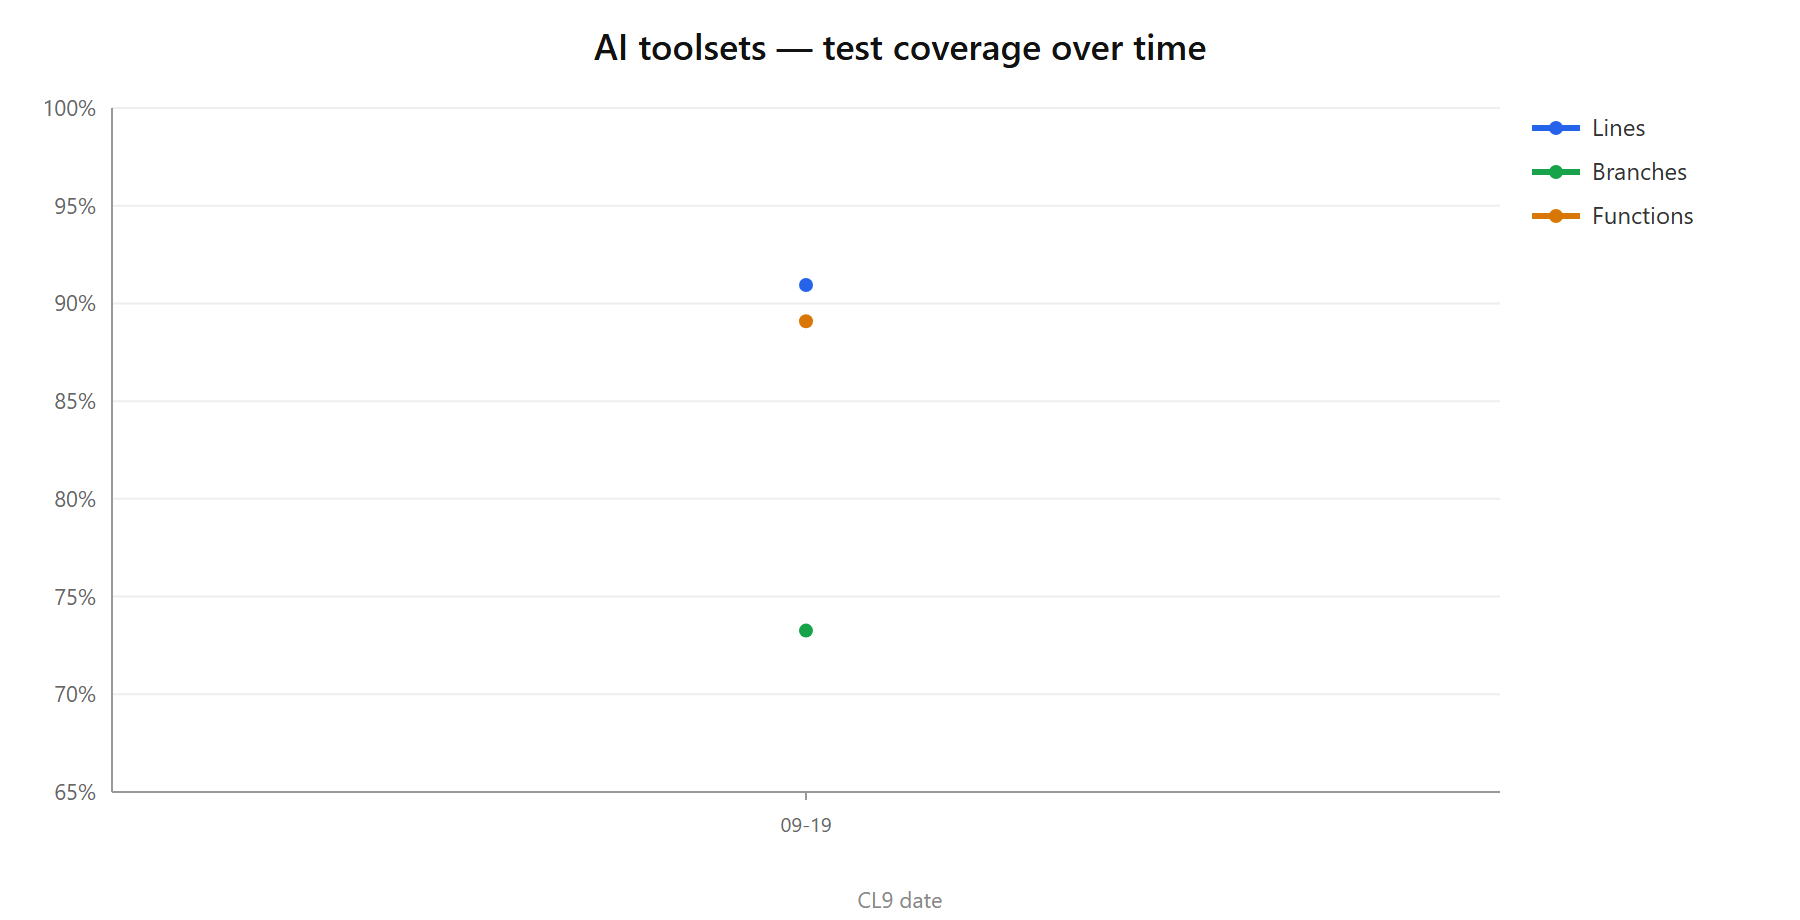
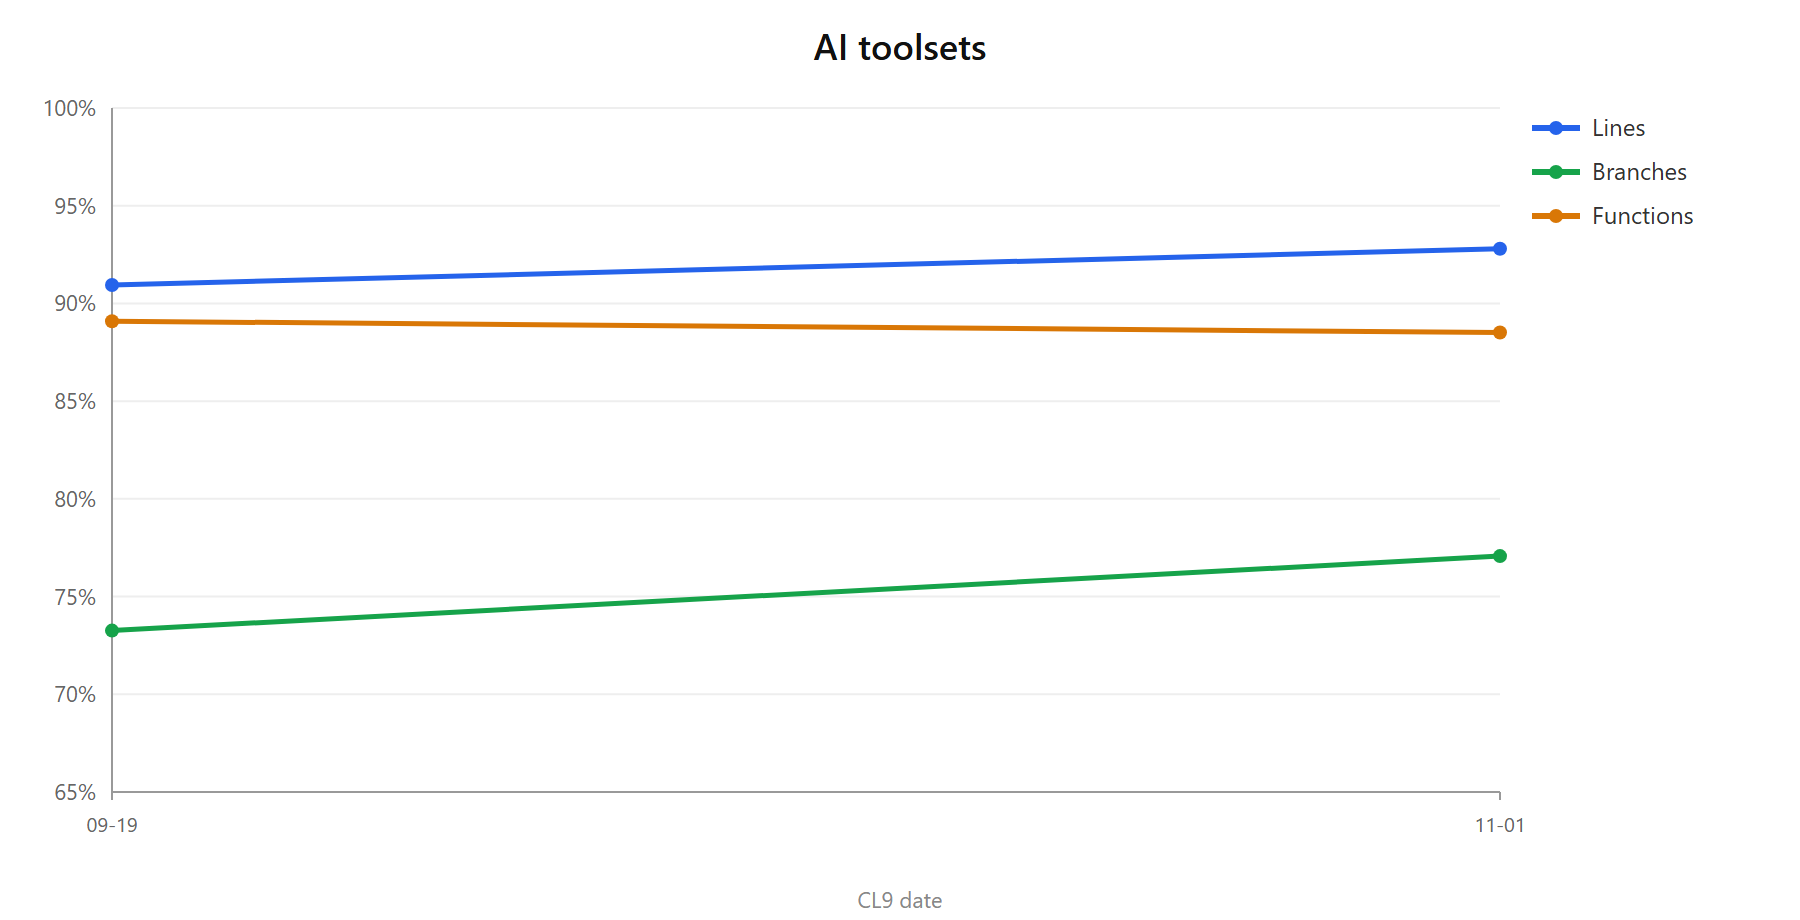
docs(aitoolsets): source-repos 0.3.0 en la guia, y las metricas del cierre
El toolset de pago pasa de 2 a 5 tools: list_repo_tree, search_code y get_file_history, mas el path?
de compare_revisions. La guia cuenta ademas lo que el QA enseño y no estaba documentado en ninguna
parte: que la busqueda de codigo de GitHub NO ve revisiones (solo indexa la rama por defecto) y por
que eso importa; que GitHub no sigue renombrados y un historial corto puede ser engañoso; que un
fichero grande llega POR TRAMOS y con las lineas numeradas, y que concluir "no esta" desde un tramo
es la peor respuesta que puede dar esta tool porque suena igual de segura que una verdadera.

Los dos campos de la credencial se documentan por lo que son y no por lo que parecen: Host es un
hostname --no una URL, no un apodo-- y es la llave de casamiento; el API base URL se deja vacio
salvo que la API viva en otro sitio.

Metricas de la familia: 178 harness ✅, cobertura agregada 92.80 / 77.07 / 88.51, y e2e del core
12/12 (aitoolsets-manager 9, pinocchio-toolsets 3). Los dos PNG, regenerados de una corrida.

El codigo del toolset es privado y vive en su propio repo (Nexus + @iriaoperae): aqui solo entra su
documentacion y las metricas de la familia.

diff --git a/docs/0.6.31/guide/extensions/aitoolsets/source-repos.md b/docs/0.6.31/guide/extensions/aitoolsets/source-repos.md
@@ -2,25 +2,34 @@
 
 > **Type:** AI toolset<br>
 > **Package:** `@iriaoperae/kwirth-aitoolset-source-repos`<br>
-> **Tools:** 2<br>
+> **Tools:** 5<br>
 > **Needs from the host:** source repository credentials (`REPOS`)
 
 ## What it does
 
-**Reads the code that is actually running, and says what changed between two deploys.** Two tools: fetch a
-source file at a given revision, and compare two revisions.
+**Reads the code that is actually running, says what changed between two deploys, and finds the code without
+guessing where it is.**
 
 That is a small package with a large consequence. A stack trace names a file and a line; without this toolset
 the model can only guess what is there, and with it the diagnosis can quote the offending code. And when a
 service degrades after a deploy, the cluster can say *when* it started but never *what went in* — that answer
 lives in the repository, not in Kubernetes.
 
+The first two tools work when **someone already said the path** — which is the case a stack trace covers.
+The other three are for when nobody did, and that matters more than it sounds: with no path to go on, a model
+tries one, and **a 404 is indistinguishable from "that file does not exist"**. Stating the second from the
+first is how an assistant ends up saying something false about your code, in the same confident tone it uses
+for everything else.
+
 ## The tools
 
 | Tool | Effect | Sensitivity | What it does |
 |---|---|---|---|
-| `get_source_file` | read | internal | Fetches the contents of a single source file from a Git repository (GitHub or GitLab) at a specific ref. Use to inspect the actual source behind a crash: read the stack-trace file:line from the logs, then fetch that file at the image build revision (describe_pod.source). Call repeatedly to follow the trace across files until you find the bug. |
-| `compare_revisions` | read | internal | Lists the commits and changed files between two revisions. Use to explain a regression that came in with a deploy: compare the build revisions of two rollout revisions and see what actually went in. Patches are off by default. |
+| `get_source_file` | read | internal | Fetches a source file at a given ref. Read the stack-trace file:line from the logs, then fetch that file at the image build revision (`describe_pod.source`). Big files arrive **in chunks** — see below. |
+| `compare_revisions` | read | internal | Lists the commits and changed files between two revisions. Use it to explain a regression that came in with a deploy. Patches are off by default, and `path` narrows the file list to one file or directory. |
+| `list_repo_tree` | read | internal | Lists the files and directories at a given ref, optionally under one subdirectory. The answer to *"what is even in here?"*, and what keeps the model from inventing paths. |
+| `search_code` | read | internal | Finds **where** something is: a symbol, a config key, an error message. ⚠ On GitHub it cannot search a revision — see below. |
+| `get_file_history` | read | internal | The commits that touched **one** file: who, when, and with what message — the full message, which is where the *why* of a change actually lives. |
 
 ## How the bot finds the repo and the revision
 
@@ -32,10 +41,64 @@ code lives.
 
 Without the exact revision the model would read `main`, which is almost never what is deployed.
 
-## The two questions it answers
+## Reading a big file: it arrives in chunks, and says so
+
+A source file is not returned whole. `get_source_file` fills a budget of 20 000 characters and tells you
+exactly what it gave you: `fromLine`, `toLine`, `totalLines` and `truncated`. To read on, the model calls
+again with `fromLine` set to the previous `toLine + 1`.
+
+This is not a detail. Before Kwirth 0.3.0 of this toolset there was **no way to ask for the rest**: a 65 KB
+file arrived cut at 30 %, and anything living in the other 70 % looked, to the model, exactly like something
+that is not in the file. The chunking is what turns *"I could not see it all"* into *"let me go and look"*.
+
+Each line comes **prefixed with its absolute number**:
+
+```
+ 648 | // Parse a repo reference (full URL or 'owner/name')
+ 649 | const parseRepoRef = (repo: string) => {
+```
+
+That prefix is not part of your file — it is stripped when quoting code. It exists because the alternative is
+the model *counting* lines, and counting is what makes an assistant report line 29 for something that lives
+in line 31.
+
+## 🔴 On GitHub, searching cannot see a revision
+
+GitHub's code search **only indexes the repository's default branch**. There is no parameter to search a tag,
+a branch or a commit: ask for one and you get results from the default branch anyway. GitLab, in contrast,
+honours the `ref` you pass.
+
+The toolset does not paper over this. Every `search_code` answer carries `searchedRef` and `refHonored`, and
+when the requested ref was ignored it also carries a `warning` in plain words, telling the model that the
+result says nothing about that revision and that the way to find out is to open the file there.
+
+Why so much insistence: a search that misses on the default branch proves **nothing** about the revision you
+are running, and the tempting conclusion — *"it must have been added later"* — is false often enough to be
+dangerous. The expected behaviour is that the bot either stays silent on the point or goes and verifies it
+with `get_source_file` at the real ref.
+
+Two more limits of GitHub search worth knowing: it needs an actual search term (qualifiers alone are
+rejected), it skips files over 384 KB, and it allows **10 searches per minute**.
+
+## Renames: GitHub does not follow them
+
+`get_file_history` returns `followsRenames`. On GitLab it is `true`; on GitHub there is no equivalent, so a
+file that was renamed shows a **short history that begins at the rename** — short, plausible, and misleading
+if read as *"this file is new"*. The flag is there so the answer can carry the caveat.
+
+## The questions it answers
 
 **"What does the code at the crash look like?"** — the chain is `get_pod_logs` for the trace, `describe_pod`
 for the build revision, then `get_source_file` for that file at that revision.
+
+**"Where is this thing?"** — when no stack trace handed over a path: `search_code` to locate the symbol or the
+config key, `list_repo_tree` to see what a directory actually holds, and then `get_source_file` to read it.
+Three tools instead of three guesses.
+
+**"Who changed this, and why?"** — `get_file_history` on the suspicious file. It returns the **full** commit
+message, not just the subject line, which is usually where the reason was written down. For the diff of one
+of those commits, `compare_revisions` with that commit as `toRef`, its parent as `fromRef` and the same
+`path`.
 
 **"What came in with this deploy?"** — `get_workload_rollout_history` gives the images of the current and the
 previous ReplicaSet revision, `describe_pod` turns each into its build revision, and `compare_revisions`
@@ -53,10 +116,18 @@ One entry per Git host, so the tools can reach it:
 
 | Field | Meaning |
 |---|---|
-| **Host** | The **exact hostname**, as it appears in the repository URL: `github.com`, `gitlab.com`, `gitlab.mycompany.com`. It is matched character by character against the host of the repo being read, so a descriptive name (*"our GitLab"*) matches nothing and the bot will answer that it has no credentials for that host. |
+| **Host** | The **exact hostname**, as it appears in the repository URL: `github.com`, `gitlab.com`, `gitlab.mycompany.com`. It is matched character by character against the host of the repo being read, so a descriptive name (*"our GitLab"*) matches nothing — and neither does `https://gitlab.mycompany.com`, because this field is a hostname, **not a URL**: no scheme, no trailing slash. |
 | **Type** | GitHub or GitLab. |
-| **API base URL** | On-prem only — e.g. `https://gitlab.mycompany.com/api/v4`. Leave empty for the cloud hosts. |
-| **Token** | A read-only token, scoped to the repositories the bot may read. |
+| **API base URL** | On-prem only — e.g. `https://gitlab.mycompany.com/api/v4`. **Leave it empty unless the API lives somewhere other than the host**: empty already means `https://<host>/api/v4` for GitLab and `https://api.github.com` for GitHub. It must point at the **API root**: a bare `https://gitlab.mycompany.com/` is the website, not the API, and every call will come back as an HTML login page. |
+| **Token** | A read-only token, scoped to the repositories the bot may read. On GitLab it needs **`read_api`**, not just `read_repository`: blob search goes through the API, and with the narrower scope everything works except `search_code`. |
+
+Both of those fields are easy to get wrong, so the errors are written to be read by a human:
+
+- No credential matches → the answer names **the host it looked for** *and* **the hosts you have configured**,
+  so a mismatch (`myhost` vs `gitlab.mycompany.com`) is visible at a glance.
+- A reply that is not JSON → the answer says the server returned a web page, most likely a login, and points
+  at the **API base URL** as the thing to check. It does not say "permission denied", which is the wrong
+  diagnosis for a misrouted call and sends you looking at the token for nothing.
 
 Where this is configured depends on the channel that uses the toolset — see that channel's own
 documentation.
@@ -72,6 +143,16 @@ only the other was trimmed.
 
 Patches are **off by default**, and that is deliberate: attributing a regression to a deploy needs the list of
 commits, not the diff. The model asks for the patch in a second call, once it knows which file matters.
+
+That second call should carry **`path`**, which narrows the file list to one file or directory. It does not
+save a round trip — neither provider can filter a comparison by path, so the filtering happens here — but it
+spends the **whole patch budget on the file that matters** instead of handing it out in arrival order and
+leaving the interesting one with nothing. Without it, asking for one file's diff across a wide range means a
+truncated answer and then two `get_source_file` calls to rebuild it by hand.
+
+The other three tools cap what they return the same way, and say so: **1 000 tree entries**, **50 search
+results**, **100 commits of history**. Each answer carries its own total — `totalEntries`, `totalResults` — so
+*"this is cut"* can be said as *"you are seeing 1 000 of about 4 100"*.
 
 ## When to grant it
 

diff --git a/aitoolsets/docs/qa/test-metrics-history.md b/aitoolsets/docs/qa/test-metrics-history.md
@@ -26,5 +26,6 @@
 
 | Fecha | Cierre | Harness | Cobertura (líneas / ramas / funcs) | Paquetes | verify.mjs | Notas |
 |---|---|---|---|---|---|---|
+| 2026-11-01 | Navegar el repositorio sin adivinar: `list_repo_tree`, `search_code` y `get_file_history` | **178** ✅ | 92.80 % / 77.07 % / 88.51 % | 8 (6 públicos + 2 privados); `source-repos` sube a **0.3.0** | sin novedad (⚠ `source-repos` sigue sin `verify.mjs`: su red está toda en el harness, con `fetch` falso). e2e del core **12/12** (`aitoolsets-manager` 9, `pinocchio-toolsets` 3) | Las dos tools que había sabían leer código **si ya se sabía dónde estaba**, que es el caso que nace de una traza —el stack trace trae el `file:line`—. Fuera de ahí el modelo no tenía de dónde sacar la ruta y hacía lo único que podía: inventársela, y **un 404 es indistinguible de «ese fichero no existe»**, así que lo afirmaba. Tres tools nuevas para eso: `list_repo_tree` (qué hay), `search_code` (dónde está) y `get_file_history` (quién lo tocó), más el **`path?` de `compare_revisions`** que quedó en el backlog del plan anterior. El harness del paquete pasa de 29 a **70** y su cobertura propia es **100 % / 82.46 % / 100 %**. 🔴 **El hallazgo que marcó el diseño: en GitHub la búsqueda de código NO acepta revisión** —su índice cubre solo la rama por defecto—, justo lo contrario de la razón de ser del toolset. No se disimula: la respuesta lleva `refHonored`, `searchedRef` y un `warning` EN TEXTO. ⚠ Otras dos asimetrías: GitHub **no sigue renombrados** en el historial de un fichero (GitLab sí, con `follow=true`), y un renombrado deja un historial **corto y creíble** —de ahí `followsRenames`—; y GitHub **no sabe listar un subdirectorio por su ruta**, solo por el sha de su subárbol, así que el árbol se pide recursivo entero y el filtro se hace en cliente, mientras GitLab lo filtra en servidor pero **pagina de 20 en 20**. El `path?` del compare es **de cliente en los dos**: lo que gana no es red sino que el presupuesto de patch se gaste entero en el fichero que importa. 🔴 **Pero lo que de verdad dejó este cierre son los CINCO arreglos que salió del QA manual, ninguno previsto en el plan, y el más caro en la tool más vieja**: (1) el error de credencial ahora dice **qué host pidió Y cuáles hay dados de alta** —con eso el propio bot diagnosticó un `https://` de más en el campo `host`, que no es una URL sino la llave de casamiento—; (2) una respuesta **HTML** (el login de un GitLab on-prem con el `apiBaseUrl` mal) se leía como «el repo es privado»: ahora se dice que no llegó JSON y que se revise ese campo; (3) el `startline` de GitLab es la primera línea del **fragmento**, no del acierto, y reportaba la 468 de algo que vivía en la 470 — se cuenta dentro del fragmento; (4) `refHonored: false` **no bastaba**: el modelo lo entendía y aun así afirmó que una función «no existía» en una revisión donde sí estaba, así que el aviso viaja ahora como frase que nombra el ref y prohíbe la afirmación; y (5) 🔴 **`get_source_file` llevaba desde 0.1.0 pudiendo afirmar que algo no está en el código**: devolvía los primeros 20 000 caracteres y nada más, así que de `common-ai/src/back.ts` (65 728 caracteres) el modelo veía el 30 % y lo que no veía «no existía». Ahora acepta **`fromLine`**, devuelve `fromLine`/`toLine`/`totalLines` y entrega el contenido **numerado** —el mismo bot que decía «línea 29» de algo que estaba en la 31 lo clava, porque ya no cuenta: lee—. El coste de numerar, medido sobre ese fichero, es un 11 % del presupuesto y **cero tramos extra**. |
 | 2026-09-19 | `compare_revisions`: de "se encareció" a "lo encareció este commit" | **113** ✅ | 90.94 % / 73.26 % / 89.09 % | 8 (6 públicos + 2 privados); `source-repos` sube a **0.2.0** | sin novedad (⚠ `source-repos` no tiene `verify.mjs`: verificarlo de verdad exige un token y un repo con dos revisiones, así que su red está toda en el harness, con `fetch` falso) | Segunda tool del toolset de pago, y la que cierra la otra mitad de la cadena: `get_source_file` mira **una** revisión, `compare_revisions` compara **dos** y dice **qué entró**. Pedida por Modus para su hallazgo H3 (regresión de eficiencia): la revisión culpable ya la identifica sin IA con `rollout_history` + digests, y esta tool es la que permite EXPLICAR el diff (F8). El harness del paquete pasa de 11 a **26** y su cobertura propia es **100 % / 80 % / 100 %**. Decisiones que se ven en los tests: **`includePatch` por defecto `false`** —para atribuir una regresión a un deploy basta la lista de commits, y el patch es lo que encarece la llamada—, y **tres topes con aviso** (100 commits · 100 ficheros · 20 000 caracteres de patch **en total**, no por fichero) que marcan `truncated`: una respuesta recortada en silencio es peor que una cara, porque el modelo concluye sobre lo que no llegó a ver. ⚠ Lo caro de normalizar fue **GitLab**: llama `diffs` a los ficheros, `id` al sha, **no devuelve contadores de línea** (hay que contarlos del propio diff, saltando las cabeceras `+++`/`---` que no son líneas del fichero) y deja `new_path` **vacío en un borrado**, donde el nombre que vale es el viejo. En GitHub la trampa es la contraria a la de `get_source_file`: aquí **los tres puntos del rango NO se codifican** (son la sintaxis del endpoint), pero cada ref sí, o una rama `release/1.0` rompe la URL. ⚠ **Se añade a esta tabla la columna de cobertura**, que hasta ahora no estaba: es el **agregado de los ocho paquetes en una sola corrida**, no la media de ocho números; la fila anterior se queda sin dato porque no se midió entonces, y el PNG la salta. |
 | 2026-09-17 | S3: las 43 repartidas en ocho paquetes | **98** ✅ | — | 8 publicados (6 públicos + 2 privados) | inventory **8/8**, observability **3/3**, describe **12/12** contra k3d-kwirth | Reparto: `k8s-inventory` 7 · `k8s-describe` 12 · `k8s-observability` 3 · `k8s-metrics` 7 · `k8s-secrets` 3 · `k8s-ops` 8 · `source-repos` 1 · `playground` 2 = **43**. Todos escritos contra el contrato nuevo (`execute(args, host)`), con `defineTool` infiriendo los argumentos desde el propio esquema — sin eso, 30 tools serían 30 sitios con `String(args.namespace)` donde el compilador no ayuda. **`k8s-ops` y `source-repos` son PRIVADOS** (Nexus, scope `@iriaoperae`); el resto, npm público. ⚠ Dos correcciones sobre lo que decía el plan: **`get_space_data` estaba en el paquete equivocado** (lo cazó el usuario) — describe UN namespace, así que es de `k8s-describe`, no de `k8s-inventory`; y **`get_secret` NO devuelve los valores**, solo las claves, así que el sensible de verdad es `get_configmap`, que sí devuelve los datos en crudo. ⚠ Gotcha caro: un toolset construido contra un `common-ai` **más nuevo que el que sirve el core** no carga (`defineTool is not a function`), y el síntoma es una tarjeta instalada **sin contador de tools** — que es justo lo que la decisión de sacar el `toolCount` del registro venía a enseñar. |

diff --git a/docs/0.6.31/guide/extensions/aitoolsets/index.md b/docs/0.6.31/guide/extensions/aitoolsets/index.md
@@ -261,7 +261,7 @@ Each one has its own page, with the full list of its tools and the effect and se
 | **[K8s Metrics](k8s-metrics)** (`k8s-metrics`) | 7 | `K8S` + `METRICS` | How much it consumes, now and over the recent readings — cluster, node, deployment or namespace. |
 | **[K8s Config & Secrets](k8s-secrets)** (`k8s-secrets`) | 3 | `K8S` | The configuration a workload really consumes: ConfigMap data, Secret keys (never values) and TLS certificate details. |
 | **[K8s Ops](k8s-ops)** (`k8s-ops`) | 8 | `K8S` | 🔴 **The write operations**: scale, restart, delete a pod, manage nodes. Every tool here changes the cluster. |
-| **[Source Repos](source-repos)** (`source-repos`) | 2 | `REPOS` | Reads a source file from GitHub or GitLab at a given revision, to inspect the code actually running — and compares two revisions, to say what went in with a deploy. |
+| **[Source Repos](source-repos)** (`source-repos`) | 5 | `REPOS` | Reads a source file from GitHub or GitLab at a given revision, to inspect the code actually running; compares two revisions, to say what went in with a deploy; and finds the code without guessing where it is — repository tree, text search and per-file history. |
 | **[Playground](playground)** (`playground`) | 2 | *(nothing)* | Two harmless toy tools (`times_two`, `father_of`). Install it to watch the machinery work end to end before writing your own. |
 
 Together they are the 43 tools kwirth has always had —plus the first one that never lived in the core,
